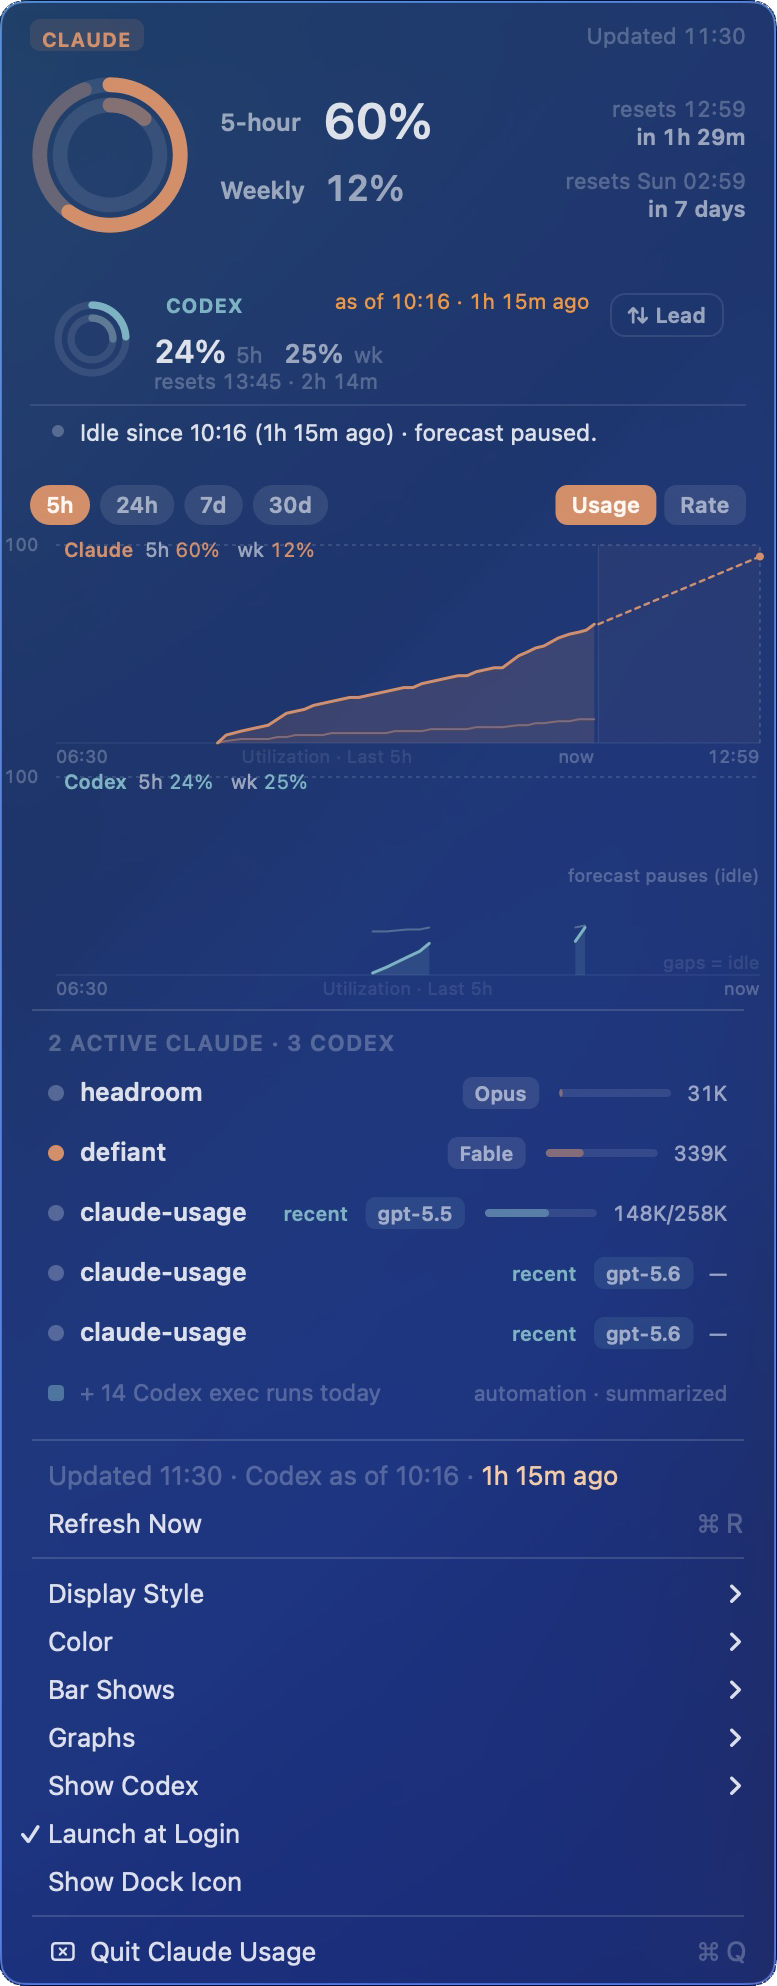
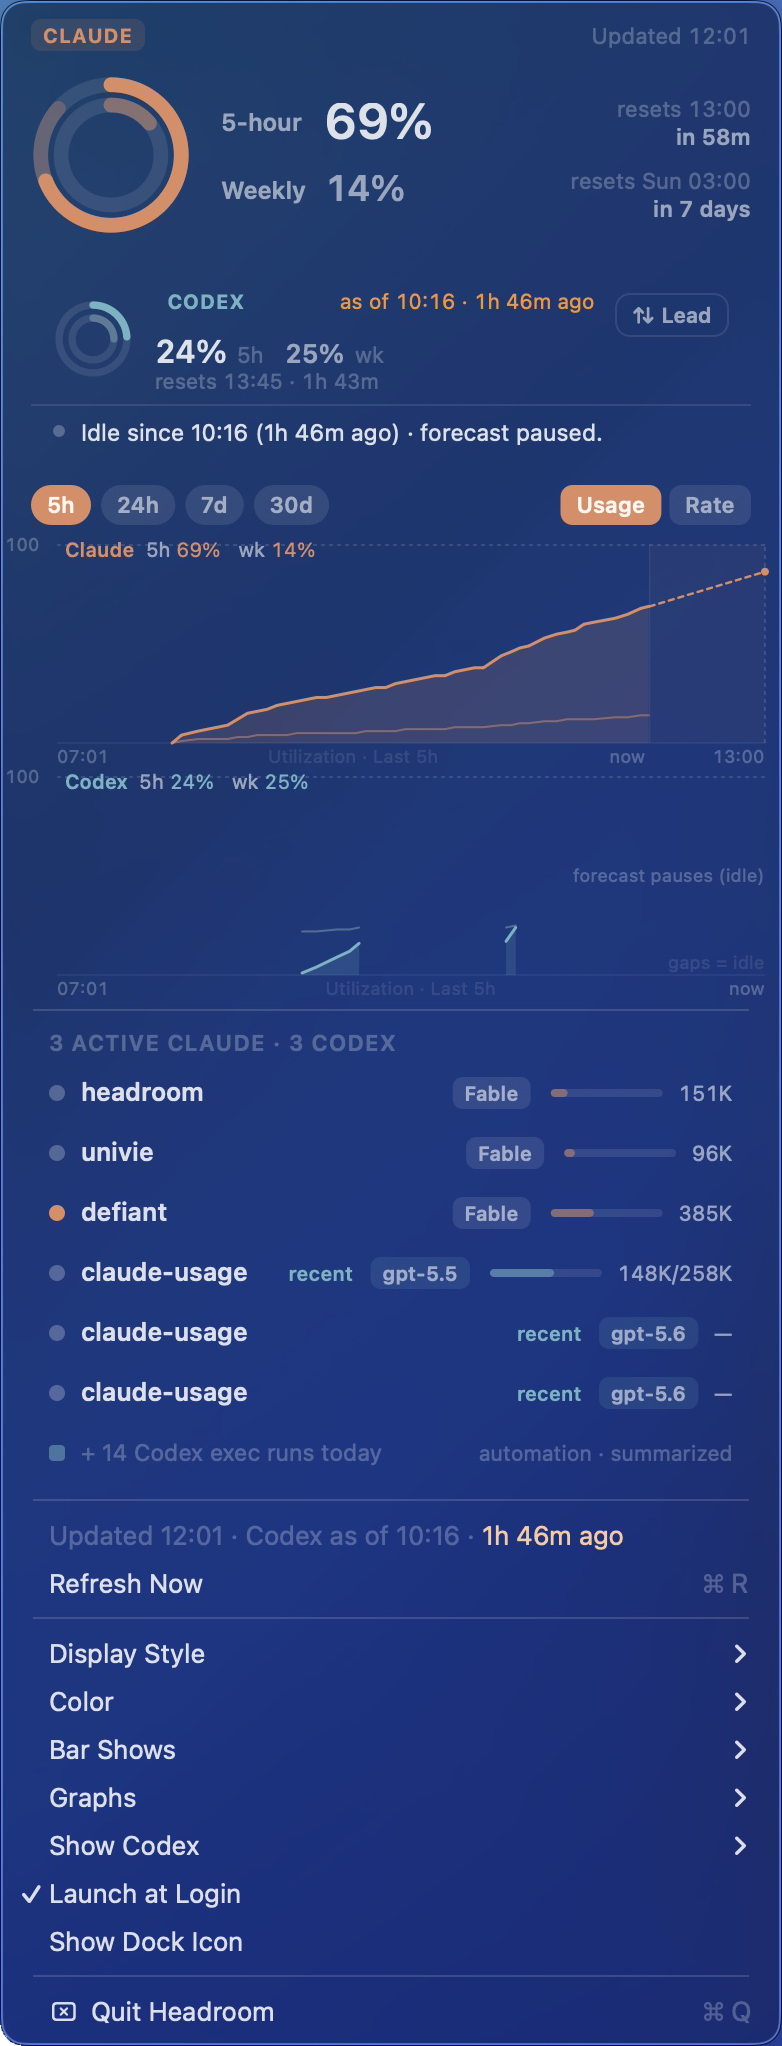
Fresh hero screenshot after the chip-centering fix
Same panel as before, but taken on v0.9.1: the provider tag is now
optically centered and the quit item shows the Headroom name. README
image width follows the new 782 px capture (391 at 2x).

diff --git a/README.md b/README.md
@@ -22,7 +22,7 @@ No servers, no accounts, no config files, no telemetry. It talks to Anthropic
 only, and never to OpenAI at all.
 
 <p align="center">
-  <img src="assets/dropdown.png" width="388"
+  <img src="assets/dropdown.png" width="391"
        alt="The two-provider panel: a Claude instrument with large 5-hour and
             weekly rings, a compact Codex secondary card with its as-of staleness
             readout and a Lead button, a status line, stacked per-provider history